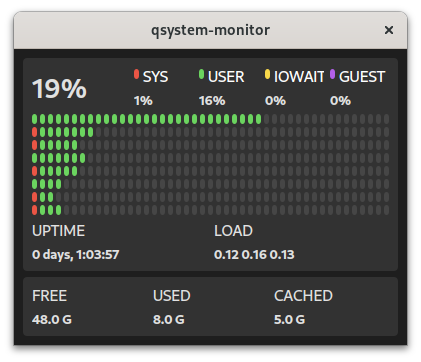
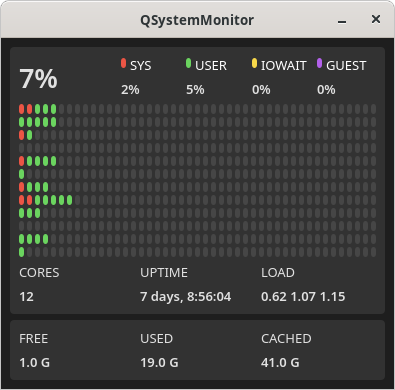
Count cores label added

Changed region(s): [[0.0, 0.0, 1.0, 1.0]]

diff --git a/src/cpuwidget.cpp b/src/cpuwidget.cpp
@@ -244,6 +244,20 @@ CPUWidget::CPUWidget(QWidget* parent) : QWidget(parent) {
   QHBoxLayout* bottom_layout = new QHBoxLayout;
 
   {
+    QVBoxLayout *l = new QVBoxLayout;
+
+    auto cpu_info = parseProcCpuInfo({"siblings"});
+    const auto siblings = cpu_info["siblings"].toInt();
+
+    cores_label_ = new QLabel(QString::number(siblings));
+    cores_label_->setFont(font);
+
+    l->addWidget(new QLabel("CORES"));
+    l->addWidget(cores_label_);
+    bottom_layout->addLayout(l);
+  }
+
+  {
     QVBoxLayout* l = new QVBoxLayout;
     uptime_label_ = new QLabel();
     uptime_label_->setFont(font);

diff --git a/src/mainwindow.cpp b/src/mainwindow.cpp
@@ -17,6 +17,7 @@ MainWindow::MainWindow(QWidget *parent, Qt::WindowFlags flags)
 MainWindow::~MainWindow() {}
 
 void MainWindow::initUI() {
+  this->setWindowTitle("QSystemMonitor");
   this->setFixedSize(this->sizeHint());
 
   auto main_widget = new QWidget;

diff --git a/include/cpuwidget.h b/include/cpuwidget.h
@@ -36,6 +36,7 @@ class CPUWidget : public QWidget {
 
   CPUStatsWidget* cpu_stats_widget_;
 
+  QLabel* cores_label_;
   QLabel* uptime_label_;
   QLabel* avg_load_label_;
 };
